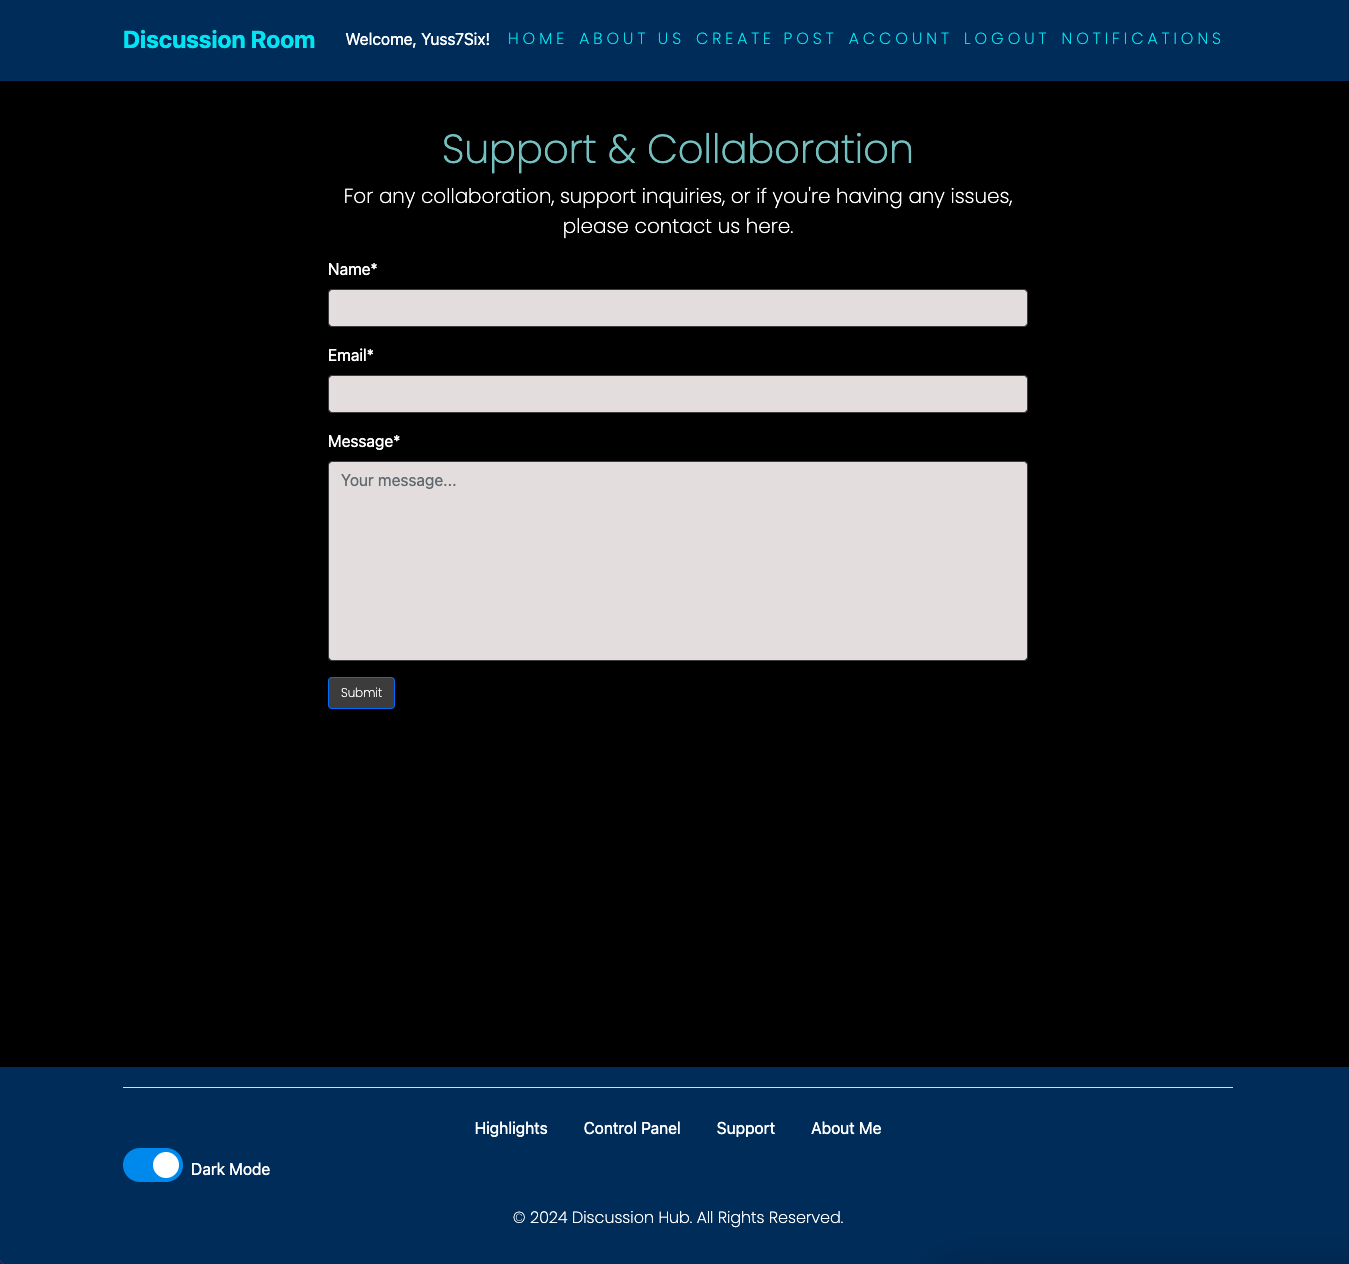
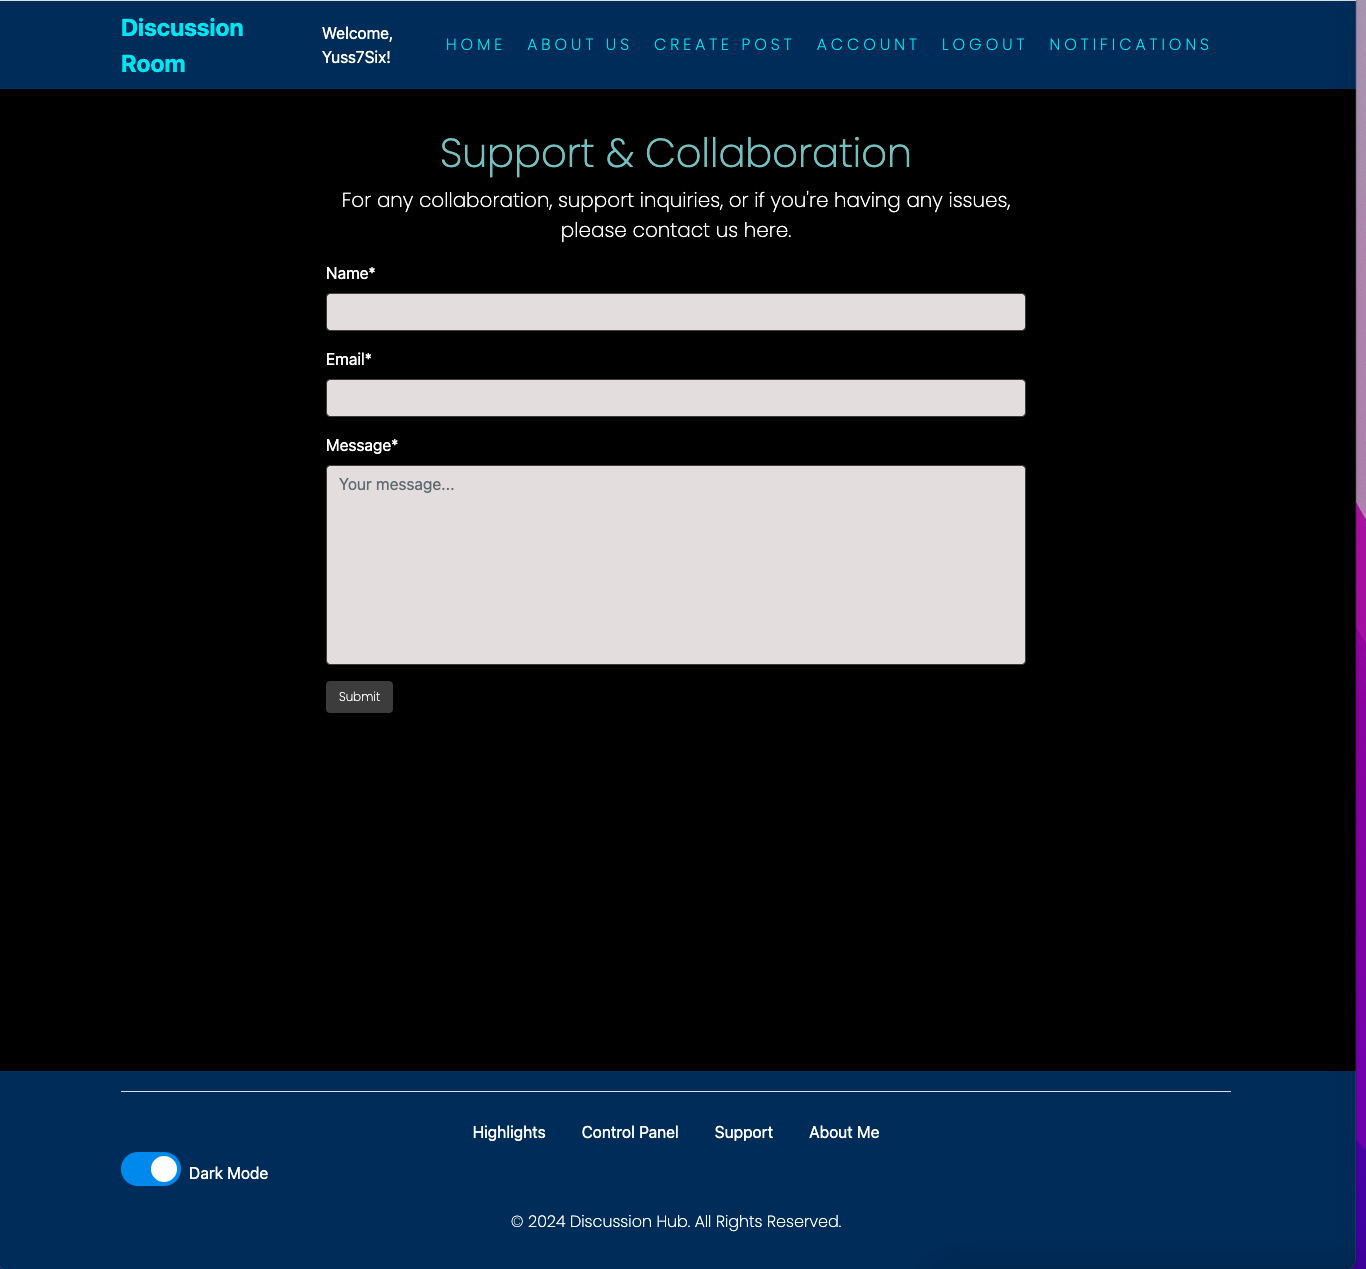
Modify Support and Collaboration setion in the readme file

diff --git a/README.md b/README.md
@@ -969,13 +969,13 @@ The About Me page in dark mode features an elegant grey window that creates a vi
 
 The Support and Collaboration page in dark mode opens with a nice blue title that creates an inviting atmosphere. Below the title, a submessage encourages users to contact the team for messages and various inquiries related to collaboration.
 
-Input fields for name, email, and message are displayed in white, ensuring clarity against the dark background. The Submit button features a grey background with white letters and a nice blue border, providing an appealing call-to-action for users submitting their queries.
+Input fields for name, email, and message are displayed in white, ensuring clarity against the dark background. The Submit button features a grey background with white letters, providing an appealing call-to-action for users submitting their queries.
 
-*About Me Dark Mode Desktop*<br>
-![About Me Dark Mode Desktop](static/images/screenshots/darkmodesupportdesktop.png)
+*Support & Collaboration Dark Mode Desktop*<br>
+![Support & Collaboration Mode Desktop](static/images/screenshots/darkmodesupportdesktop.png)
 
-*About Me Dark Mode Mobile*<br>
-![About Me Dark Mode Mobile](static/images/screenshots/darkmodesupportmobile.png)
+*Support & Collaboration Dark Mode Mobile*<br>
+![Support & Collaboration Mode Mobile](static/images/screenshots/darkmodesupportmobile.png)
 
 ## Control Panel (Dark Mode)
 
@@ -985,11 +985,11 @@ Within the control panel, users can expect to see various icons—such as "x" fo
 
 The combination of blue titles, white text, and green action icons creates a cohesive and user-friendly interface, ensuring that administrators can manage the forum efficiently and intuitively while maintaining a pleasant visual environment.
 
-*About Me Dark Mode Desktop*<br>
-![About Me Dark Mode Desktop](static/images/screenshots/darkmodecontrolpaneldesktop.png)
+*Control Panel Dark Mode Desktop*<br>
+![Control Panel Dark Mode Desktop](static/images/screenshots/darkmodecontrolpaneldesktop.png)
 
-*About Me Dark Mode Mobile*<br>
-![About Me Dark Mode Mobile](static/images/screenshots/darkmodecontrolpanelmobile.png)
+*Control Panel Dark Mode Mobile*<br>
+![Control Panel Dark Mode Mobile](static/images/screenshots/darkmodecontrolpanelmobile.png)
 
 ## Highlights Page (Dark Mode)
 
